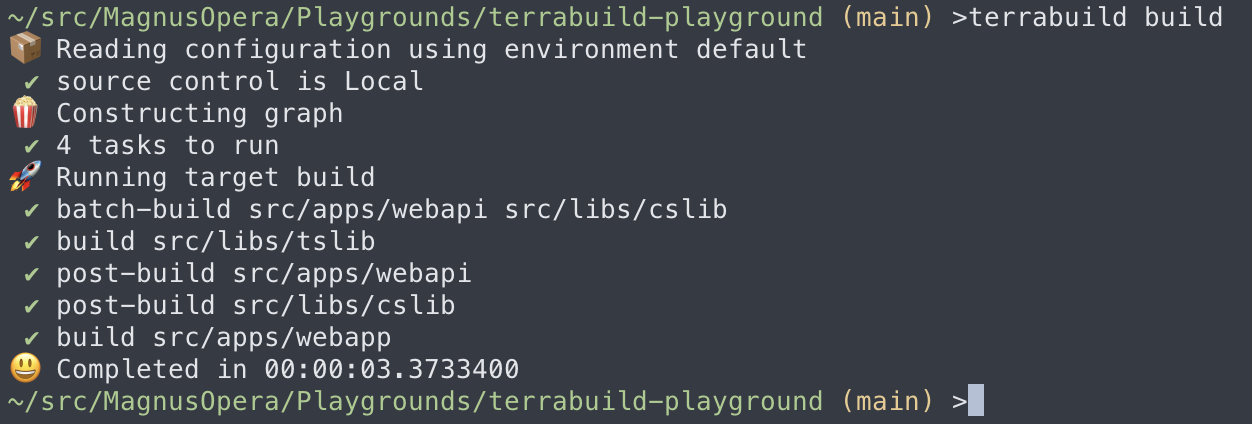
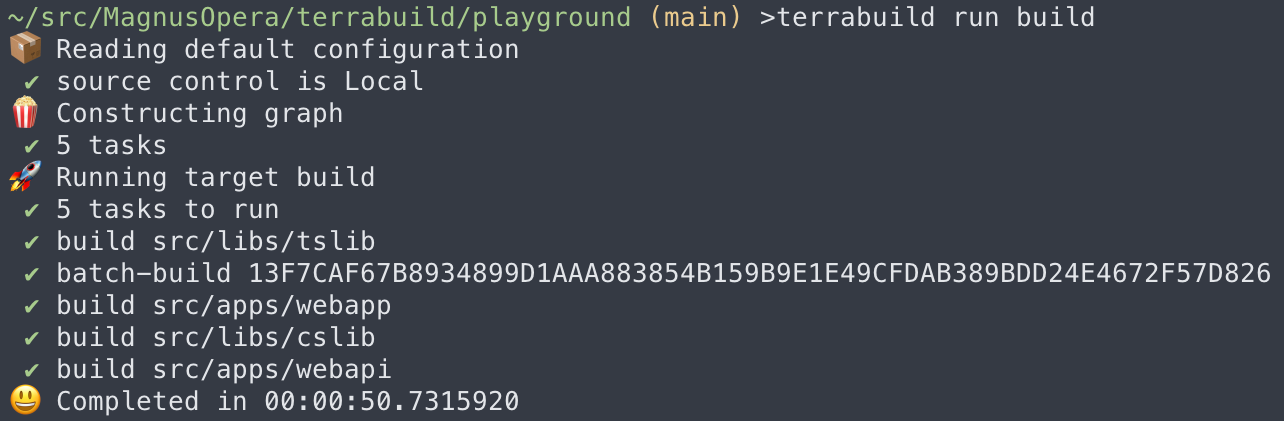
upgrade doc

Changed region(s): [[0.0, 0.2162, 0.9968, 0.9881], [0.0, 0.0, 0.9968, 0.2162]]

diff --git a/README.md b/README.md
@@ -106,7 +106,7 @@ cd terrabuild-playground
 ### Build
 You can then build everything using:
 ```
-terrabuild build
+terrabuild run build
 ```
 This will build applications and create docker images. Note first run needs to download docker images - this can take some time. This will be much faster next time!
 
@@ -119,7 +119,7 @@ Docker images are built as well (here in OrbStack) - note tags can differ as thi
 ### Deploy
 You can also deploy using Terraform (it's a fake local deployment).
 ```
-terrabuild deploy
+terrabuild run deploy
 ```
 
 Notice that since targets are cached, build is really fast. You will then have a similar output:
